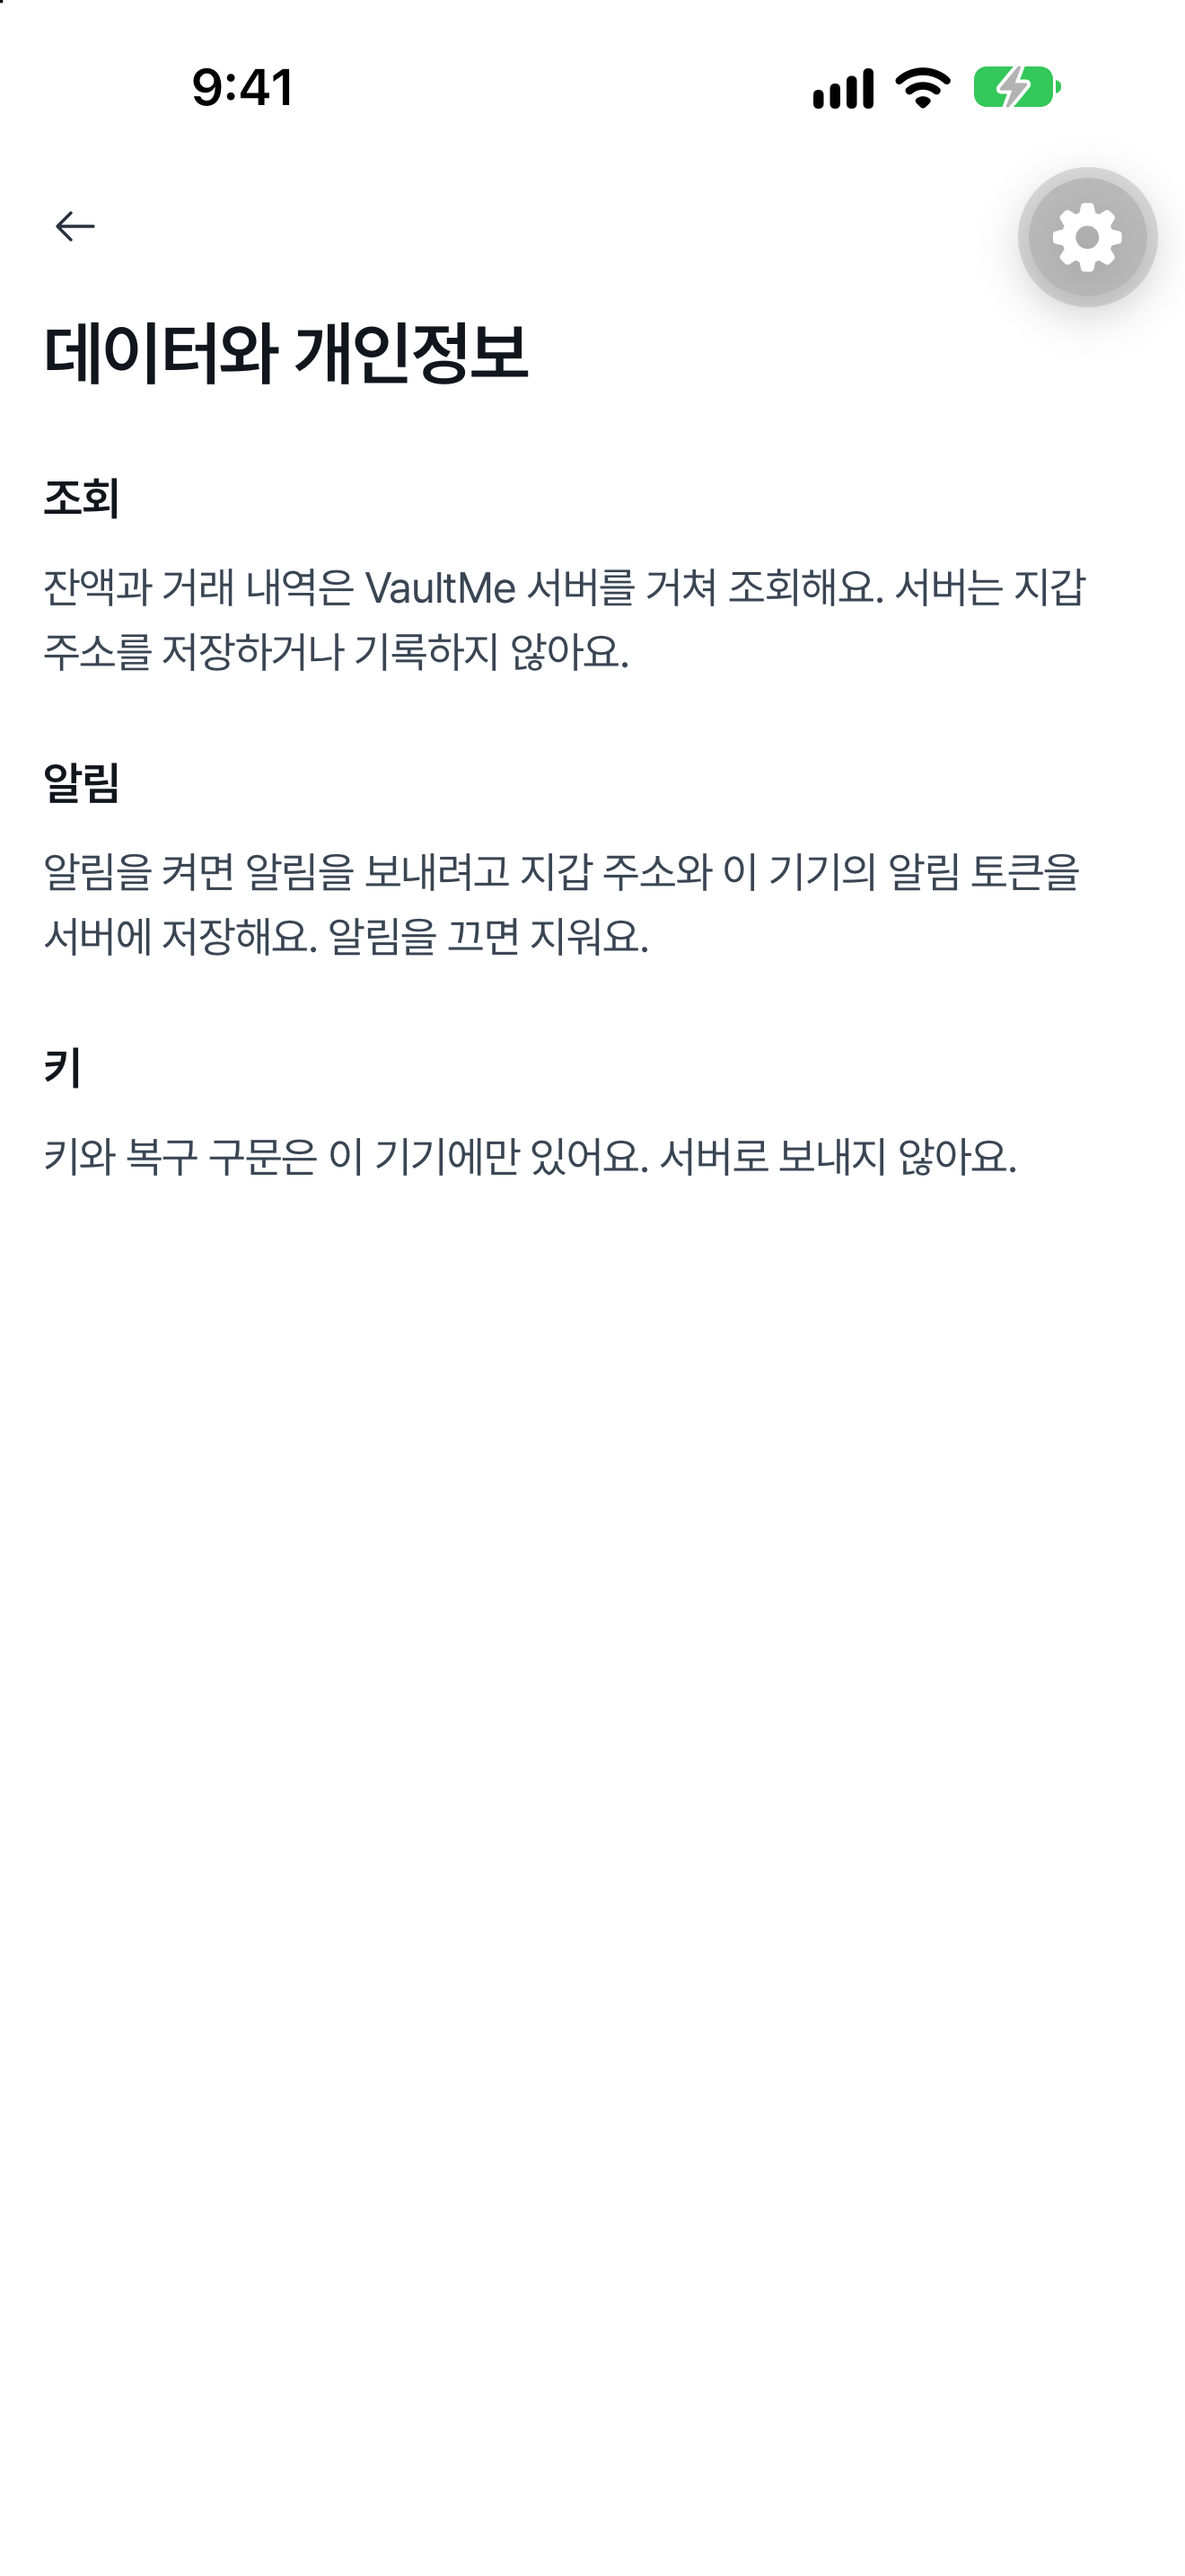
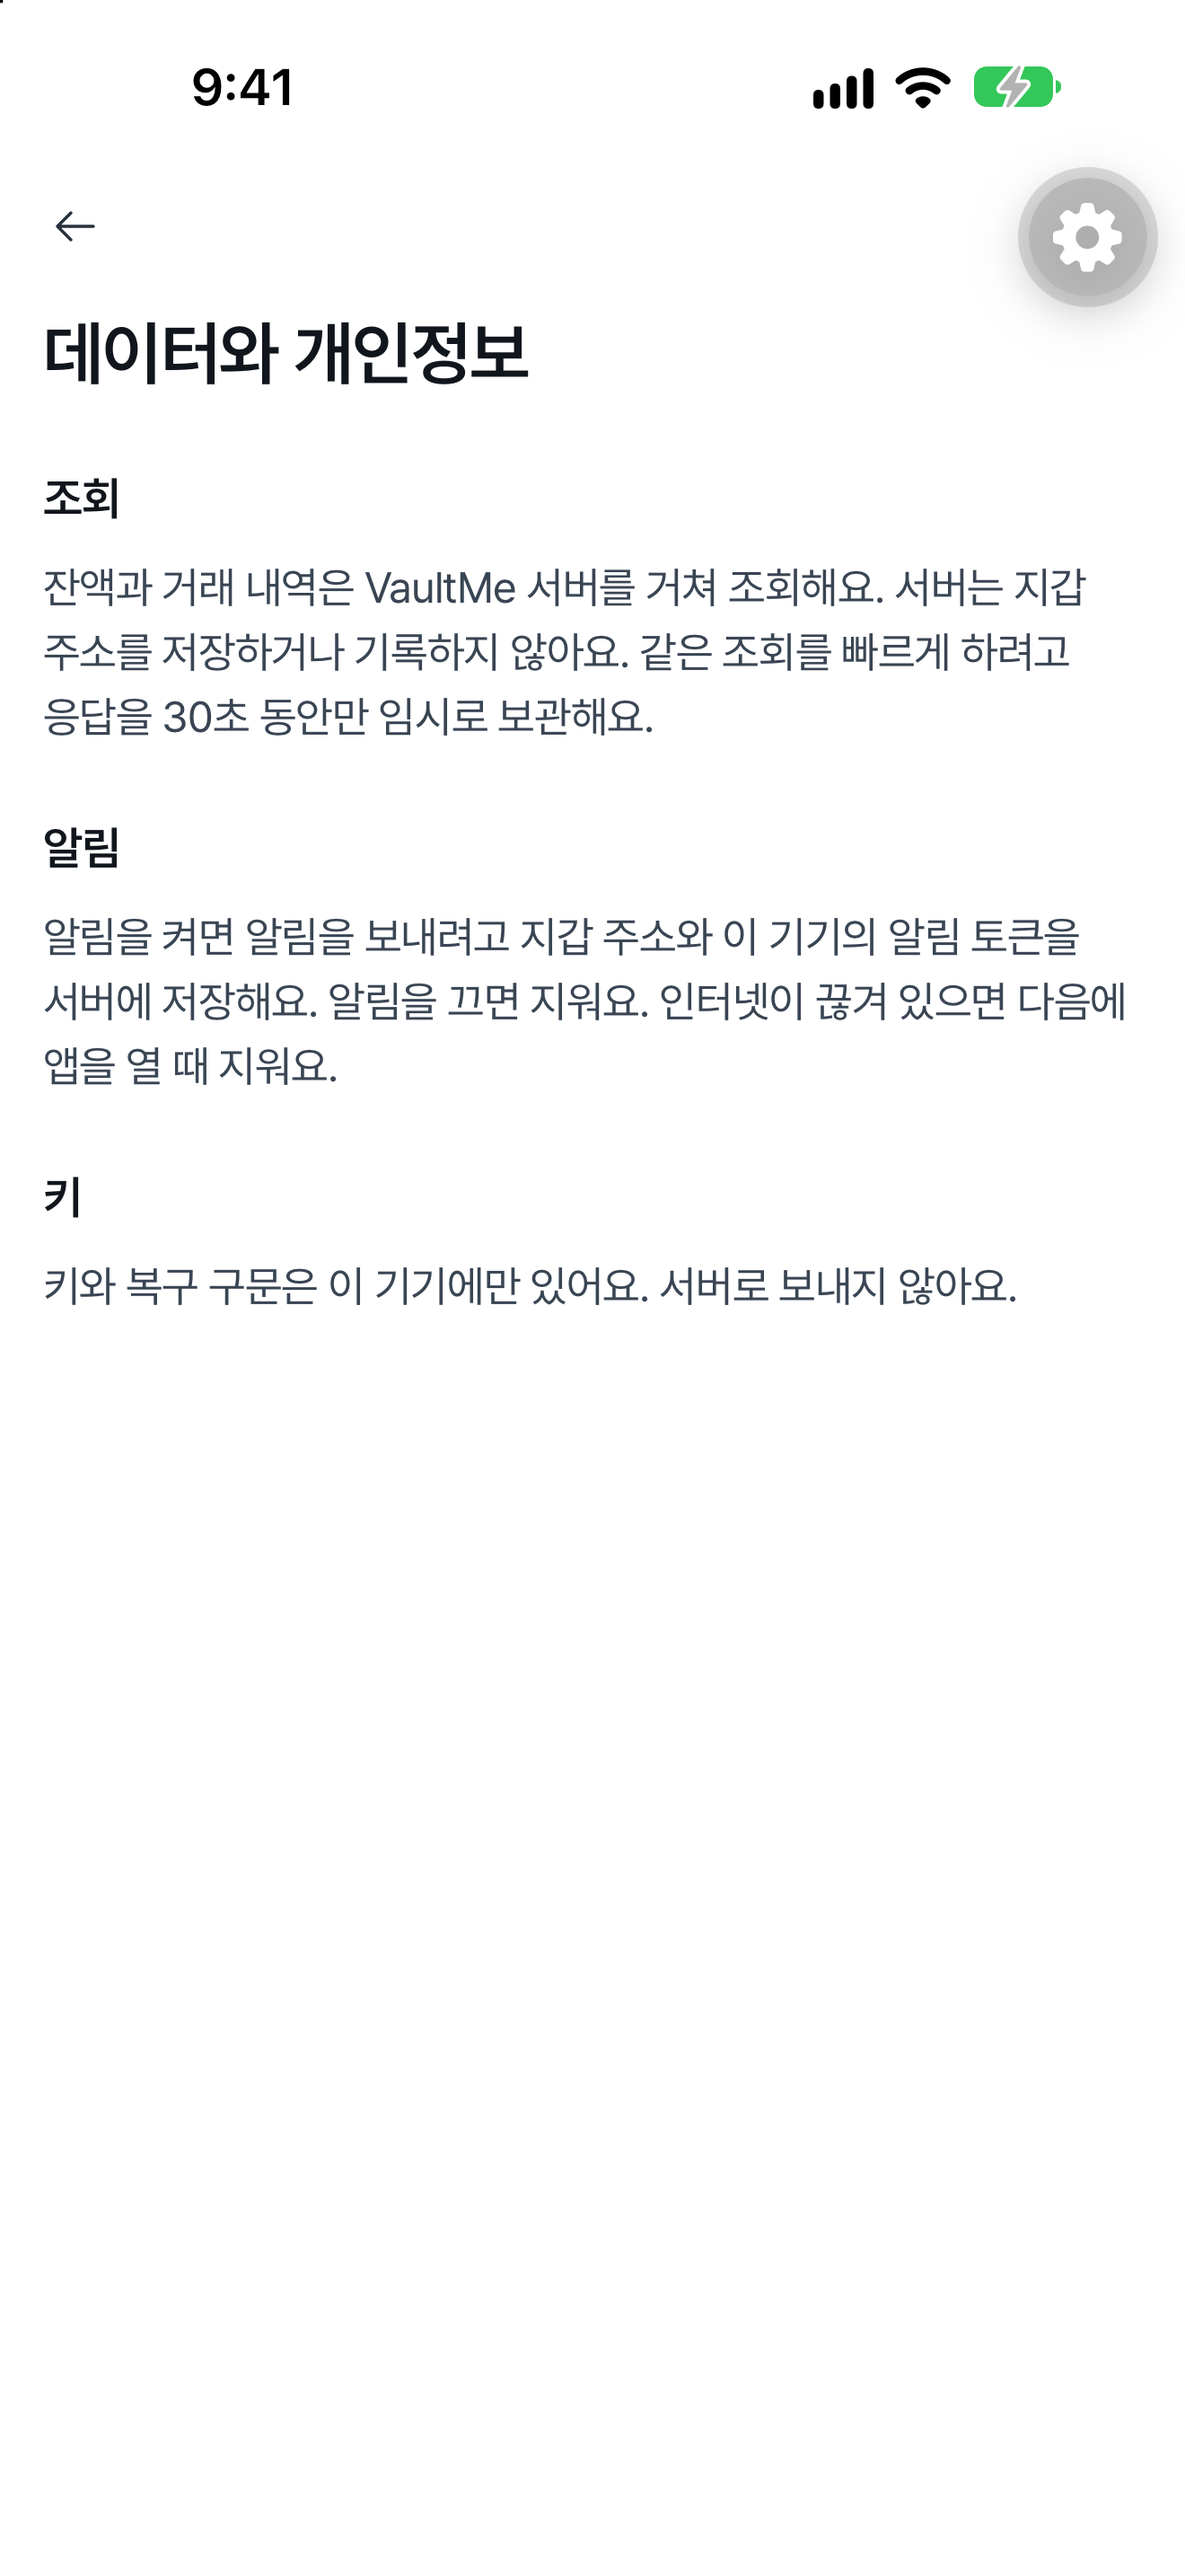
feat: amend privacy copy for the 30 s cache and offline push delete (#311)

diff --git a/packages/i18n/src/ko.ts b/packages/i18n/src/ko.ts
@@ -543,11 +543,11 @@ export const ko = {
       title: '데이터와 개인정보',
       lookup: {
         title: '조회',
-        body: '잔액과 거래 내역은 VaultMe 서버를 거쳐 조회해요. 서버는 지갑 주소를 저장하거나 기록하지 않아요.',
+        body: '잔액과 거래 내역은 VaultMe 서버를 거쳐 조회해요. 서버는 지갑 주소를 저장하거나 기록하지 않아요. 같은 조회를 빠르게 하려고 응답을 30초 동안만 임시로 보관해요.',
       },
       push: {
         title: '알림',
-        body: '알림을 켜면 알림을 보내려고 지갑 주소와 이 기기의 알림 토큰을 서버에 저장해요. 알림을 끄면 지워요.',
+        body: '알림을 켜면 알림을 보내려고 지갑 주소와 이 기기의 알림 토큰을 서버에 저장해요. 알림을 끄면 지워요. 인터넷이 끊겨 있으면 다음에 앱을 열 때 지워요.',
       },
       keys: { title: '키', body: '키와 복구 구문은 이 기기에만 있어요. 서버로 보내지 않아요.' },
     },
